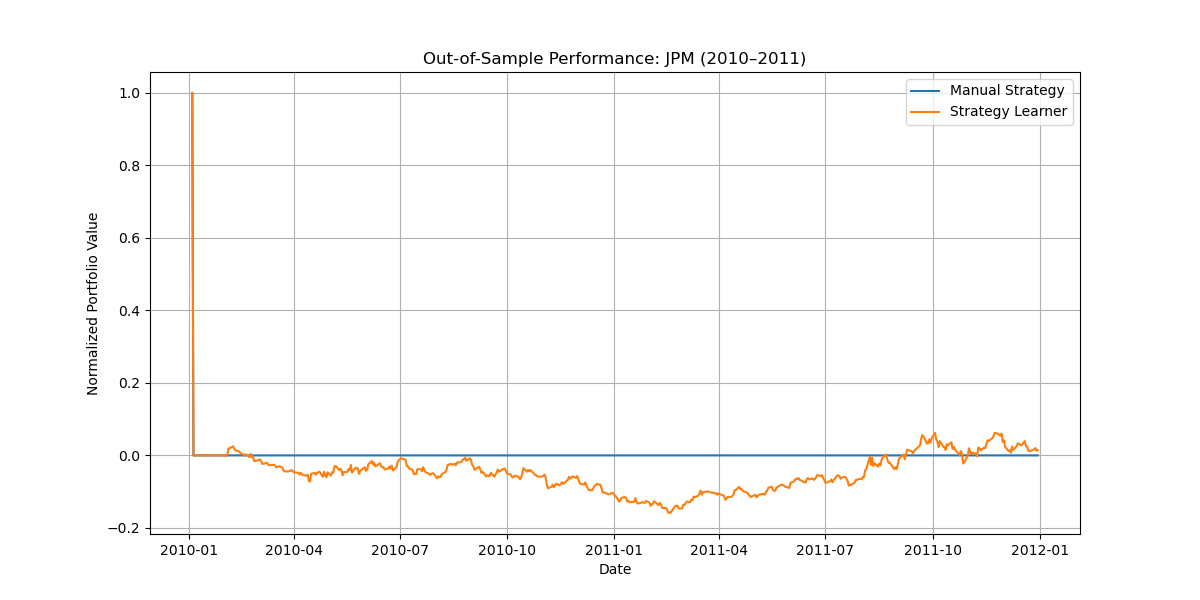
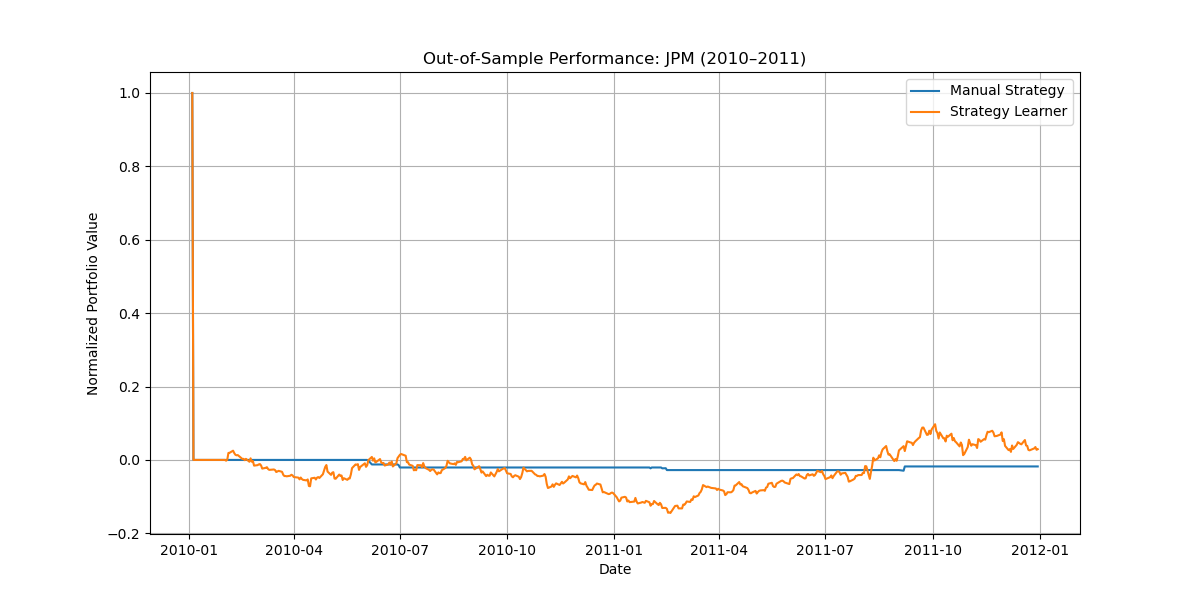
fixing exp1 figure zero to one

diff --git a/strategy_evaluation/ManualStrategy.py b/strategy_evaluation/ManualStrategy.py
@@ -34,8 +34,8 @@ class ManualStrategy:
             bbp_val = bbp.loc[date]
             macd_val = macd_hist.loc[date]
 
-            long_signal = (sma_val < 0.99) and (bbp_val < 0.5) and (macd_val > 0)
-            short_signal = (sma_val > 1.01) and (bbp_val > 0.5) and (macd_val < 0)
+            long_signal = (sma_val < 0.99) and (bbp_val < 0.1) and (macd_val > 0)
+            short_signal = (sma_val > 1.01) and (bbp_val > 0.9) and (macd_val < 0)
 
             if position == 0:
                 if long_signal:
